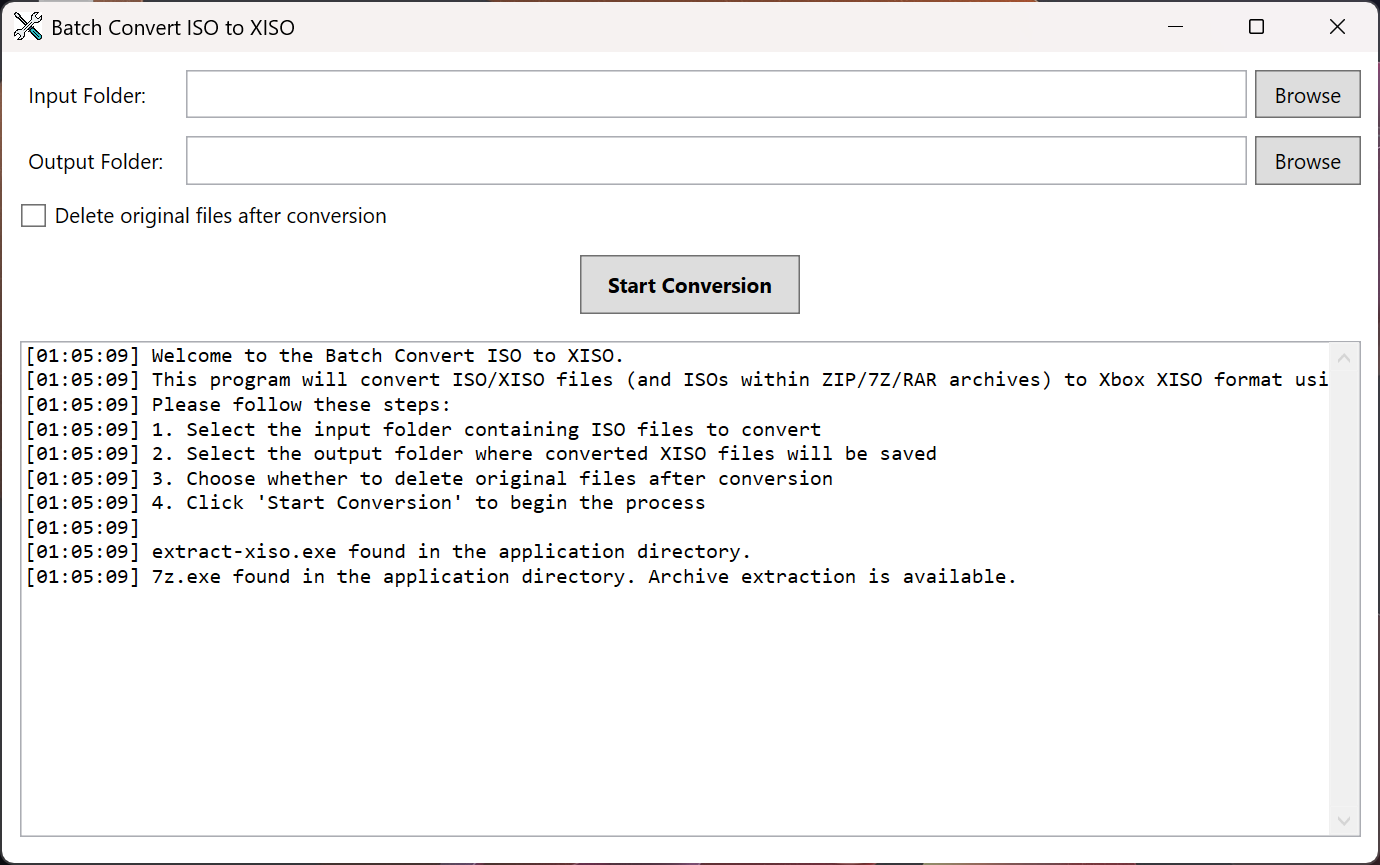
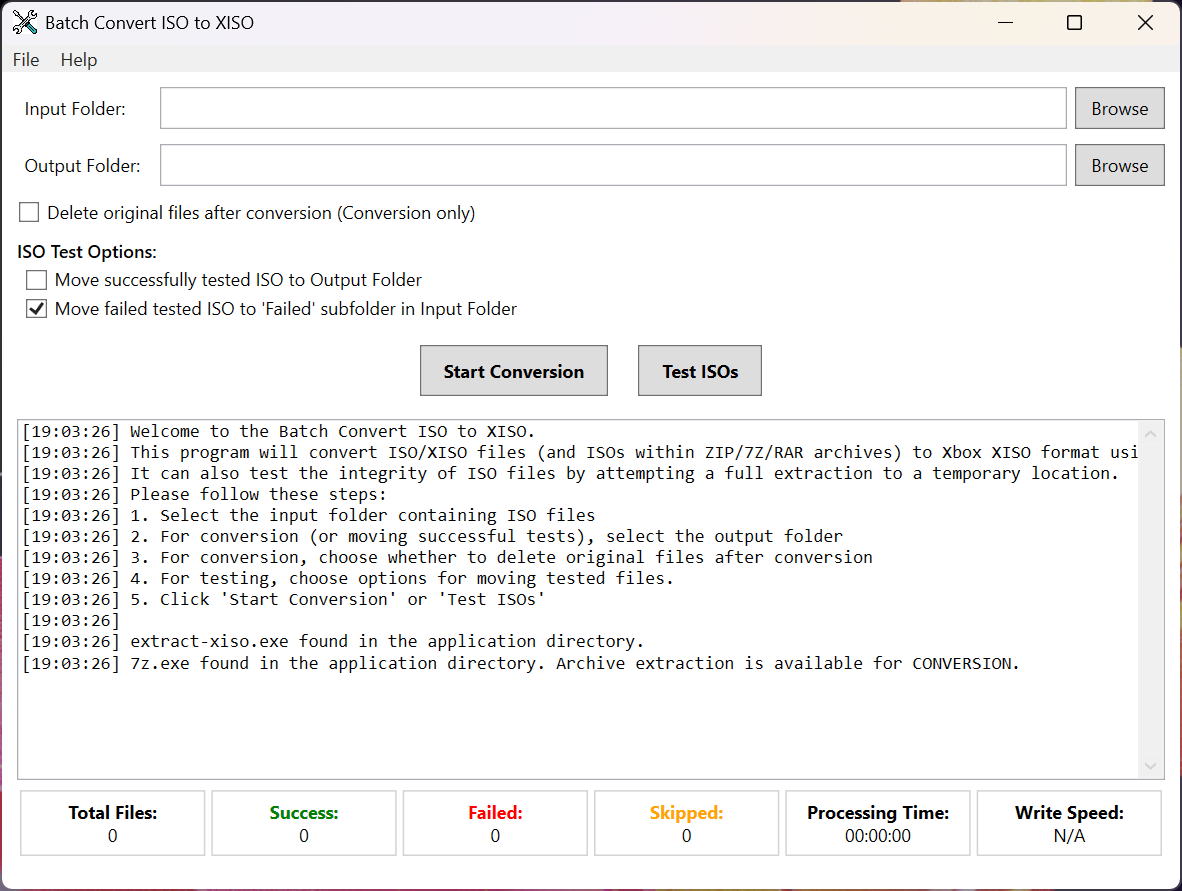
Update ReadMe with enhanced feature list and updated usage instructions
Expanded documentation to include new features such as ISO testing, Xbox 360 support, and detailed progress tracking. Clarified usage instructions, added troubleshooting tips, and emphasized the benefits of XISO conversion and testing. Improved formatting for better readability. Updated acknowledgements and installation steps.

diff --git a/ReadMe.md b/ReadMe.md
@@ -1,78 +1,117 @@
 # Batch Convert ISO to XISO
 
-A simple Windows WPF application for batch converting Xbox Original ISO files to the optimized XISO format using the `extract-xiso` command-line tool. It also supports extracting and converting ISO files contained within ZIP, 7Z, and RAR archives using `7z.exe`.
+A GUI application for **extract-xiso** that provides a simple Windows WPF interface for batch converting Xbox ISO files to the optimized XISO format and testing their integrity. This application supports both **Xbox 360 ISOs** and **original Xbox ISOs**. It also supports extracting and converting ISO files contained within ZIP, 7Z, and RAR archives using `7z.exe`.
+
+⭐ **If you find this tool useful, please give us a Star on GitHub!** ⭐
 
 ![Batch Convert ISO to XISO](screenshot.png)
 
 ## Overview
 
-Batch Convert ISO to XISO is a Windows application that provides a user interface for converting multiple Xbox Original ISO files to the XISO format. It leverages the functionality of the `extract-xiso` command-line tool for the conversion process and integrates `7z.exe` to handle ISOs packaged within common archive formats (ZIP, 7Z, RAR), providing a streamlined batch processing experience.
+Batch Convert ISO to XISO is a Windows application that provides a user-friendly interface for:
+1.  Converting multiple Xbox ISO files to the XISO format.
+2.  Testing the integrity of Xbox ISO files.
+
+It leverages the functionality of the `extract-xiso` command-line tool for both conversion and testing. For conversions, it also integrates `7z.exe` to handle ISOs packaged within common archive formats (ZIP, 7Z, RAR), providing a streamlined batch processing experience. The application features real-time progress tracking, detailed summary statistics, and disk write speed monitoring.
 
 ## Features
 
-*   **Batch Processing**: Convert multiple ISO files in a single operation.
-*   **ISO/XISO Support**: Specifically designed for converting standard Xbox Original ISO images to the optimized XISO format. It can also process existing XISO files (which `extract-xiso -r` will typically skip if already optimized).
-*   **Archive Support**: Automatically extracts ISO files from `.zip`, `.7z`, and `.rar` archives found in the input folder.
-*   **7-Zip Integration**: Uses `7z.exe` for `.7z`, `.zip`, and `.rar` extraction. `7z.exe` and `7z.dll` (if required by your version) are included with the application release.
-*   **Progress Tracking**: Provides a progress bar and real-time log messages detailing the status of each file being processed.
-*   **Delete Original Option**: Option to delete the original source files after successful conversion. This includes standalone ISOs and original archive files if all contained ISOs were successfully processed. **Use with caution!**
-*   **Global Error Reporting**: Includes a feature to automatically send silent bug reports to the developer with comprehensive error details (system info, error message, stack trace, and application log) to aid in improving the application.
-*   **User-Friendly Interface**: Simple and intuitive Windows interface.
+*   **Batch ISO to XISO Conversion**: Convert multiple ISO files to XISO format in a single operation.
+*   **Batch ISO Integrity Testing**: Test the integrity of multiple ISO files.
+*   **Xbox Compatibility**: Supports both **Xbox 360 ISOs** and **original Xbox ISOs**.
+*   **ISO/XISO Support**:
+    *   Converts standard Xbox ISO images to the optimized XISO format using `extract-xiso -r`.
+    *   Tests ISO integrity by attempting a full extraction using `extract-xiso -x`.
+    *   Can also process existing XISO files (which `extract-xiso -r` will typically skip if already optimized during conversion).
+*   **Archive Support (for Conversion only)**: Automatically extracts ISO files from `.zip`, `.7z`, and `.rar` archives found in the input folder for conversion.
+*   **7-Zip Integration**: Uses `7z.exe` for `.7z`, `.zip`, and `.rar` extraction during the conversion process. `7z.exe` (and `7z.dll` if required) are included with the application release.
+*   **Progress Tracking & Summary**:
+    *   Real-time log messages detailing the status of each file.
+    *   Overall progress bar.
+    *   Summary statistics: Total Files, Success, Failed, Skipped, Processing Time.
+    *   Real-time disk write speed monitoring.
+*   **File Management Options**:
+    *   **Conversion**: Option to delete source files (standalone ISOs or archives if all contents processed successfully) after successful conversion. **Use with caution!**
+    *   **Testing**: Options to move successfully tested ISOs to the output folder and/or move failed ISOs to a "Failed" subfolder in the input folder.
+*   **Global Error Reporting**: Includes a feature to automatically send silent bug reports to the developer with comprehensive error details to aid in improving the application.
+*   **User-Friendly Interface**: Simple and intuitive Windows interface with Menu Bar and About window.
 
 ## Supported File Formats
 
-*   **ISO files**: Standard Xbox Original ISO images.
-*   **ZIP, 7Z, RAR archives**: Archives containing `.iso` files (extraction is recursive).
+*   **Input for Conversion**:
+    *   `.iso` files: Standard Xbox and Xbox 360 ISO images.
+    *   `.zip`, `.7z`, `.rar` archives: Archives containing `.iso` files (extraction is recursive).
+*   **Input for Testing**:
+    *   `.iso` files: Standard Xbox and Xbox 360 ISO images (direct files only, not from archives).
 
 ## Requirements
 
 *   Windows 7 or later
-*   [.NET 9.0 Runtime](https://dotnet.microsoft.com/download/dotnet/9.0)
-*   `extract-xiso.exe`: The command-line tool for converting ISOs. This executable **must** be placed in the same directory as the application. [A common source for `extract-xiso` is the XboxDev GitHub repository](https://github.com/XboxDev/extract-xiso) (you will need to find a pre-compiled Windows binary).
-*   `7z.exe` and optionally `7z.dll`: The command-line tool for archive extraction. These files are included with the application release and must be in the same directory as the application.
+*   [.NET 9.0 Runtime](https://dotnet.microsoft.com/download/dotnet/9.0) (or the .NET version the release was built with, check release notes)
 
 ## Installation
 
-1.  Download the latest release from the [Releases page](YOUR_RELEASES_PAGE_URL_HERE).
+1.  Download the latest release from the [Releases page](https://github.com/drpetersonfernandes/BatchConvertIsoToXiso/releases).
 2.  Extract the contents of the downloaded zip file to a folder of your choice.
-3.  Obtain `extract-xiso.exe` and place it in the same folder where you extracted the application files.
-4.  Ensure `7z.exe` (and `7z.dll` if present in the release zip) are also in the same folder.
-5.  Run `BatchConvertIsoToXiso.exe`.
+3.  Run `BatchConvertIsoToXiso.exe`.
 
 ## Usage
 
-1.  **Select Input Folder**: Click the "Browse" button next to "Input Folder" and choose the folder containing your ISO files and/or archives (ZIP, 7Z, RAR).
-2.  **Select Output Folder**: Click the "Browse" button next to "Output Folder" and choose where you want the converted XISO files to be saved.
-3.  **Delete Original Files**: Check the "Delete original files after conversion" box if you want the original standalone ISOs or original archive files (if all contained ISOs processed successfully) to be automatically deleted. **Use with caution!**
-4.  **Start Conversion**: Click the "Start Conversion" button.
-5.  **Monitor Progress**: The log viewer will show the progress and status of each file. A progress bar will indicate the overall progress.
-6.  **Cancel**: Click the "Cancel" button to stop the current batch process. The application will attempt to finish processing the currently active file before stopping.
-7.  **Completion**: A summary message box will appear when the batch process is finished, showing how many files were converted, skipped (if already optimized), and failed.
+1.  **Launch the Application**.
+2.  **Select Input Folder**: Click the "Browse" button next to "Input Folder". Choose the folder containing your ISO files. For conversion, this folder can also contain archives (ZIP, 7Z, RAR) with ISOs. For testing, only direct `.iso` files in this folder will be processed.
+3.  **Select Output Folder**: Click the "Browse" button next to "Output Folder".
+    *   For **Conversion**: This is where converted XISO files will be saved.
+    *   For **Testing**: This is where successfully tested ISOs will be moved if the "Move successfully tested ISO to Output Folder" option is checked.
+4.  **Configure Options**:
+    *   **For Conversion**:
+        *   Check "Delete files after conversion (Conversion only)" if you want standalone ISOs or archive files (if all contained ISOs processed successfully) to be deleted. **Use with caution!**
+    *   **For Testing**:
+        *   Under "ISO Test Options:", check/uncheck:
+            *   "Move successfully tested ISO to Output Folder".
+            *   "Move failed tested ISO to 'Failed' subfolder in Input Folder" (checked by default).
+5.  **Choose Action**:
+    *   Click **"Start Conversion"** to convert ISOs to XISO format.
+    *   Click **"Test ISOs"** to test the integrity of ISO files.
+6.  **Monitor Progress**:
+    *   The log viewer will show detailed progress and status for each file.
+    *   The progress bar indicates overall progress.
+    *   Summary statistics (Total, Success, Failed, Skipped, Time, Write Speed) will update in real-time.
+7.  **Cancel**: Click the "Cancel" button to stop the current batch process. The application will attempt to finish processing the currently active file/archive before stopping.
+8.  **Completion**: A summary message box will appear when the batch process is finished, detailing the results.
+9.  **Menu**:
+    *   **File > Exit**: Closes the application.
+    *   **Help > About**: Opens the About window with version information and links.
 
 ## About XISO Format
 
-XISO is the native disk image format used by the Original Xbox console. It is essentially an ISO 9660 image with specific padding and structure optimized for the Xbox hardware. Converting standard ISOs (often created from disc dumps) to XISO ensures they are in the correct format for use with modded Xbox consoles, emulators like Xemu, or other Xbox development tools. The `extract-xiso -r` command rebuilds the ISO to the correct XISO structure, often removing unnecessary padding and optimizing the file layout.
+XISO is the native disk image format used by Xbox consoles. It is essentially an ISO 9660 image with specific padding and structure optimized for Xbox hardware.
+*   Converting standard ISOs (often created from disc dumps) to XISO using `extract-xiso -r` ensures they are in the correct format for use with modded Xbox consoles, emulators like Xemu, or other Xbox development tools. This command rebuilds the ISO to the correct XISO structure, often removing unnecessary padding and optimizing the file layout.
+*   Testing ISOs using `extract-xiso -x` attempts to extract the full contents of the ISO. A successful extraction is a good indicator of the ISO's integrity.
 
-## Why Use XISO?
+## Why Use XISO / Test ISOs?
 
-*   **Compatibility**: XISO is the standard format expected by modded Xbox consoles and emulators, ensuring games load correctly.
-*   **Optimization**: `extract-xiso` can optimize the file structure and remove padding, potentially reducing file size compared to a raw ISO dump (though the primary benefit is format correctness, not always significant size reduction like CHD).
-*   **Data Integrity**: Using `extract-xiso` helps verify the structure of the ISO and rebuild it correctly.
+*   **Compatibility**: XISO is the standard format expected by modded Xbox consoles and emulators, ensuring games load correctly on both original Xbox and Xbox 360 systems.
+*   **Optimization (Conversion)**: `extract-xiso -r` can optimize the file structure and remove padding, potentially reducing file size (though the primary benefit is format correctness).
+*   **Data Integrity (Conversion & Testing)**: Using `extract-xiso` helps verify the structure of the ISO and rebuild it correctly (conversion) or check for readability and potential corruption (testing).
 
 ## Troubleshooting
 
-*   Ensure `extract-xiso.exe` and `7z.exe` (and `7z.dll` if needed) are present in the same directory as the application.
+*   Ensure `extract-xiso.exe` and `7z.exe` (and `7z.dll` if needed) are present in the same directory as the application. `extract-xiso.exe` is crucial for both conversion and testing. `7z.exe` is needed for archive handling during conversion.
 *   Make sure you have appropriate read permissions for the input folder and write permissions for the output folder and temporary extraction folders.
-*   If `.zip`, `.7z`, or `.rar` extraction is failing, verify that `7z.exe` is not missing or corrupted.
-*   Review the application log window for detailed error messages during conversion or extraction.
+*   If `.zip`, `.7z`, or `.rar` extraction is failing during conversion, verify that `7z.exe` is not missing or corrupted.
+*   If ISO testing fails, the ISO might be corrupted or not a valid Xbox/Xbox 360 ISO image. Review the application log for detailed error messages from `extract-xiso`.
+*   Review the application log window for detailed error messages during any operation.
 *   Automatic error reports will be sent to the developer if unexpected issues occur.
 
 ## Acknowledgements
 
-*   Uses **extract-xiso** for the core ISO to XISO conversion. [Find more information or source here (e.g., on GitHub)](https://github.com/XboxDev/extract-xiso).
-*   Uses **7-Zip** (`7z.exe`) for extracting `.zip`, `.7z`, and `.rar` archives. [Official 7-Zip website](https://www.7-zip.org/).
+*   This application is a **GUI wrapper for extract-xiso**. We extend our heartfelt thanks and acknowledgment to the **XboxDev team** for creating and maintaining the powerful `extract-xiso` command-line tool that makes this application possible. Without their excellent work, this GUI interface would not exist.
+*   Uses **extract-xiso** for the core ISO to XISO conversion and ISO integrity testing. [Find more information or source here (on GitHub)](https://github.com/XboxDev/extract-xiso).
+*   Uses **7-Zip** (`7z.exe`) for extracting `.zip`, `.7z`, and `.rar` archives during conversion. [Official 7-Zip website](https://www.7-zip.org/).
 *   Developed by [Pure Logic Code](https://www.purelogiccode.com).
 
 ---
+
+⭐ **Don't forget to Star this repository if you find it useful!** ⭐
 
 Thank you for using **Batch Convert ISO to XISO**! For more information and support, visit [purelogiccode.com](https://www.purelogiccode.com).
